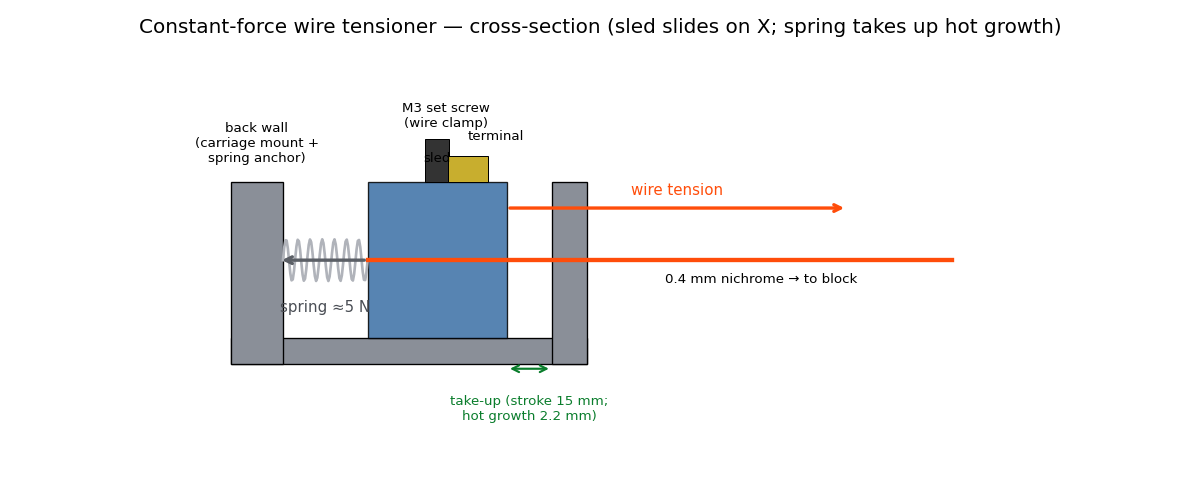
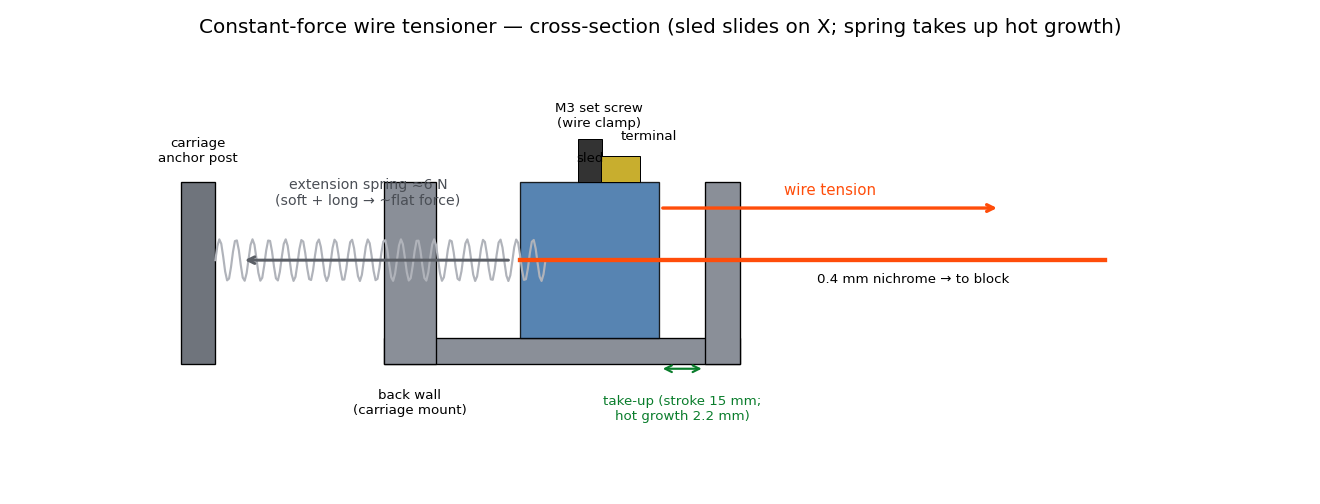
Real spring spec + heater driver design
Spring: geometry made a cavity extension spring too stiff over the 2.2 mm take-up,
so spec a soft stainless extension spring anchored to a carriage post ~30 mm behind
the bracket (long -> near-constant ~6 N). Bracket back wall opened to a pass-through;
params + assembly + labeled diagram updated. (Constant-force spring is the upgrade.)

Heater driver (sim/heater_driver.py): low-side logic-level N-MOSFET PWM from 24 V with
closed-loop constant-power (current-sense shunt). Resistive load -> NO flyback diode.
Two-timescale electro-thermal sim: ~15 W/17% duty at 250 C, 40 m-degC PWM ripple
(thermal mass filters), constant-power rejects a -20% supply sag, MOSFET ~30 mW.
Component selection + ASCII schematic. `make driver`.

diff --git a/sim/heater_driver.py b/sim/heater_driver.py
@@ -1,0 +1,212 @@
+"""Electro-thermal design + simulation for the hot-wire heater driver.
+
+Topology: low-side logic-level N-MOSFET PWM from a 24 V supply, with a current-sense shunt
+for CLOSED-LOOP constant-power (≈ constant-current, since nichrome's resistance barely drifts).
+The load is a pure resistor -> NO flyback diode needed (the #1 simplification vs a motor).
+
+Why constant-power control: wire temperature (hence kerf) is set by power = losses. Holding
+power rejects supply sag and resistance drift; open-loop fixed duty lets temperature wander.
+
+Two-timescale simulation:
+  1. slow thermal envelope (heat-up + supply-sag rejection) -- PWM averaged, dt = 1 ms
+  2. fast PWM ripple -- resolves the switching waveform, shows the wire's thermal mass makes
+     temperature ripple negligible (=> stable kerf) even at modest PWM frequency.
+
+Run:  python3 sim/heater_driver.py  ->  sim/out/heater_driver.png  + component / operating table.
+"""
+import os
+import sys
+
+import numpy as np
+import matplotlib
+matplotlib.use("Agg")
+import matplotlib.pyplot as plt          # noqa: E402
+
+HERE = os.path.dirname(os.path.abspath(__file__))
+sys.path.insert(0, os.path.join(HERE, "..", "cad"))
+sys.path.insert(0, HERE)
+import machine_params as M               # noqa: E402
+import wire_analysis as wa               # noqa: E402
+
+OUT = os.path.join(HERE, "out")
+os.makedirs(OUT, exist_ok=True)
+
+W = wa.Wire()
+C_P = 450.0                              # J/kgK nichrome specific heat
+C_TH = C_P * W.dens * W.area * W.span    # J/K  wire heat capacity (thermal mass)
+V_SUP = M.WIRE_PSU_V                     # supply voltage (V)
+RDS = 0.010                              # MOSFET on-resistance (ohm), logic-level FET
+F_PWM = 1000.0                           # PWM frequency (Hz)
+
+
+def R_at(Tc):
+    return wa.rho_at(W, Tc) * W.span / W.area
+
+
+def p_loss_total(Tc):
+    pr, pc = wa.p_loss(W.dia, Tc + 273.15, W.emiss)
+    return (pr + pc) * W.span
+
+
+# --- operating point -----------------------------------------------------
+I_op, P_len, p_rad, p_conv = wa.current_for_temp(W, W.T_cut)
+P_OP = P_len * W.span
+R_OP = R_at(W.T_cut)
+DUTY_OP = P_OP / (V_SUP ** 2 / (R_OP + RDS))
+I_PEAK = V_SUP / (R_OP + RDS)
+I_RMS = np.sqrt(DUTY_OP) * I_PEAK
+
+
+# --- controllers (return duty from measured T, R, V) ---------------------
+def duty_power(P_set, dmax=1.0):
+    return lambda T, R, V: min(P_set * (R + RDS) / V ** 2, dmax)
+
+
+def duty_fixed(d):
+    return lambda T, R, V: d
+
+
+# --- slow thermal envelope (PWM averaged) --------------------------------
+def run_slow(duty_fn, T0=20.0, t_end=12.0, dt=1e-3, v_of_t=None):
+    n = int(t_end / dt)
+    T = T0
+    ts = np.empty(n)
+    Ts = np.empty(n)
+    dd = np.empty(n)
+    for k in range(n):
+        t = k * dt
+        V = V_SUP if v_of_t is None else v_of_t(t)
+        R = R_at(T)
+        d = duty_fn(T, R, V)
+        P = d * V ** 2 / (R + RDS) * (R / (R + RDS))     # power in the wire (not the FET)
+        T += (P - p_loss_total(T)) / C_TH * dt
+        ts[k], Ts[k], dd[k] = t, T, d
+    return ts, Ts, dd
+
+
+# --- fast PWM ripple -----------------------------------------------------
+def run_ripple(duty, T0, f=F_PWM, cycles=6, dt=2e-6):
+    t_end = cycles / f
+    n = int(t_end / dt)
+    T = T0
+    ts = np.empty(n)
+    Ts = np.empty(n)
+    on = np.empty(n)
+    period = 1.0 / f
+    for k in range(n):
+        t = k * dt
+        is_on = (t % period) < duty * period
+        R = R_at(T)
+        P = (V_SUP ** 2 / (R + RDS) * (R / (R + RDS))) if is_on else 0.0
+        T += (P - p_loss_total(T)) / C_TH * dt
+        ts[k], Ts[k], on[k] = t, T, is_on
+    return ts, Ts, on
+
+
+def tau_estimate():
+    ts, Ts, _ = run_slow(duty_power(P_OP), t_end=20.0)
+    Tf = Ts[-1]
+    target = 20.0 + 0.632 * (Tf - 20.0)
+    i = int(np.argmax(Ts >= target))
+    return ts[i], Tf
+
+
+def report():
+    tau, Tf = tau_estimate()
+    p_fet = I_RMS ** 2 * RDS + 0.5 * V_SUP * I_PEAK * 100e-9 * F_PWM   # cond + switching
+    print("=" * 68)
+    print(f"  HOT-WIRE HEATER DRIVER — {V_SUP:.0f} V supply, low-side N-MOSFET PWM + CC")
+    print("=" * 68)
+    print(f"  wire            {W.dia*1e3:.1f} mm nichrome, {W.span*1e3:.0f} mm, R_hot {R_OP:.2f} ohm")
+    print(f"  operating pt    {P_OP:.1f} W to hold {W.T_cut:.0f} C   (duty {DUTY_OP*100:.0f}% @ {F_PWM:.0f} Hz)")
+    print(f"    currents      peak {I_PEAK:.2f} A | RMS {I_RMS:.2f} A | avg {DUTY_OP*I_PEAK:.2f} A")
+    print(f"  thermal mass    C = {C_TH:.3f} J/K  ->  time constant ~{tau:.1f} s (63%); ~{3*tau:.0f} s to heat")
+    print(f"  MOSFET loss     ~{p_fet*1e3:.0f} mW (I_rms^2*Rds + switching) -> runs cold, tiny FET ok")
+    print(f"  NO flyback diode — the load is resistive (non-inductive nichrome).")
+    print("-" * 68)
+    print("  COMPONENTS")
+    print(f"    supply    {V_SUP:.0f} V DC, >= 4 A (e.g. 24 V/5 A brick); 12 V works (halves peak I)")
+    print( "    MOSFET    logic-level N-ch, Vds>=40 V, Rds<=20 mOhm  (IRLZ44N / IRLB8721 / IRLR7843)")
+    print( "    gate      100 ohm series + 10k pulldown; MCU PWM 0.5-2 kHz (3.3/5 V drives it)")
+    print( "    sense     0.05 ohm shunt (low-side) + INA180/INA240 -> ADC   (or ACS712 hall)")
+    print( "    protect   ~5 A fuse; TVS (SMBJ30A) across supply; open-wire detect (duty>0 & I~0)")
+    print( "    control   PID on measured current/power -> duty (constant-power); e-stop cuts gate")
+    print( "    standalone alt: an off-the-shelf CC buck (XL4015 / DPS5015) set to I_set")
+    print("=" * 68)
+    print("  ASCII schematic")
+    print(r"""
+     +Vsup ──[FUSE]──┬──────────────┐
+                     │            [HOT WIRE]  (nichrome, ~6.3 Ω)   << no flyback diode
+                     │              │
+                    TVS          D│ MOSFET  (low-side, logic level)
+                     │           G┤◄── 100Ω ── MCU PWM
+     GND ────────────┴──[SHUNT]──S┘
+                          │
+                          └── INA180 ── MCU ADC   (current -> constant-power loop)
+""")
+
+
+def figure():
+    fig, ax = plt.subplots(2, 2, figsize=(13, 8), dpi=120)
+
+    # 1) heat-up (constant-power) with an overdrive option
+    ts, Ts, _ = run_slow(duty_power(P_OP), t_end=14.0)
+    tso, Tso, _ = run_slow(duty_power(2.0 * P_OP, dmax=0.6), t_end=14.0)  # overdrive, duty-capped
+    ax[0, 0].plot(ts, Ts, label="constant-power (Pset)")
+    ax[0, 0].plot(tso, Tso, "--", label="overdrive start (2×Pset, duty≤0.6)")
+    ax[0, 0].axhline(W.T_cut, color="#b00020", ls=":", lw=1)
+    ax[0, 0].set(xlabel="time (s)", ylabel="wire temperature (°C)",
+                 title="Heat-up — thermal mass sets the pace")
+    ax[0, 0].legend(fontsize=8)
+    ax[0, 0].grid(alpha=0.3)
+
+    # 2) supply-sag rejection: open-loop vs constant-power
+    def sag(t):
+        return V_SUP if t < 6 else V_SUP * 0.8       # 20% supply droop at t=6 s
+    tp, Tp, _ = run_slow(duty_power(P_OP), t_end=12.0, v_of_t=sag)
+    to, To, _ = run_slow(duty_fixed(DUTY_OP), t_end=12.0, v_of_t=sag)
+    ax[0, 1].plot(tp, Tp, label="constant-power (holds)")
+    ax[0, 1].plot(to, To, "--", label="open-loop fixed duty (drifts)")
+    ax[0, 1].axvline(6, color="#8a8f98", ls=":", lw=1)
+    ax[0, 1].text(6.1, ax[0, 1].get_ylim()[0] + 8, "−20% supply", fontsize=8, color="#555")
+    ax[0, 1].set(xlabel="time (s)", ylabel="wire temperature (°C)",
+                 title="Constant-power rejects supply sag")
+    ax[0, 1].legend(fontsize=8)
+    ax[0, 1].grid(alpha=0.3)
+
+    # 3) PWM ripple (fast) — negligible temperature ripple
+    tr, Tr, on = run_ripple(DUTY_OP, T0=W.T_cut)
+    ax[1, 0].plot(tr * 1e3, Tr, color="#b00020")
+    ax[1, 0].set(xlabel="time (ms)", ylabel="wire temperature (°C)",
+                 title=f"PWM ripple @ {F_PWM:.0f} Hz — Δ = {1e3*(Tr.max()-Tr.min()):.1f} m°C")
+    axb = ax[1, 0].twinx()
+    axb.fill_between(tr * 1e3, on, step="pre", color="#3a86c8", alpha=0.15)
+    axb.set_yticks([0, 1]); axb.set_yticklabels(["off", "on"]); axb.set_ylim(-0.1, 4)
+    ax[1, 0].grid(alpha=0.3)
+
+    # 4) duty -> steady temperature map
+    duties = np.linspace(0.02, 1.0, 60)
+    Tsteady = []
+    for d in duties:
+        _, Td, _ = run_slow(duty_fixed(d), t_end=40.0, dt=2e-3)
+        Tsteady.append(Td[-1])
+    ax[1, 1].plot(np.array(duties) * 100, Tsteady, color="#2f6da8")
+    ax[1, 1].axhline(W.T_cut, color="#b00020", ls=":", lw=1)
+    ax[1, 1].axvline(DUTY_OP * 100, color="#b00020", ls=":", lw=1)
+    ax[1, 1].plot(DUTY_OP * 100, W.T_cut, "o", color="#b00020")
+    ax[1, 1].set(xlabel="duty (%)", ylabel="steady temperature (°C)",
+                 title="Duty → steady temperature", ylim=(0, 700))
+    ax[1, 1].grid(alpha=0.3)
+
+    fig.suptitle(f"Hot-wire heater driver — {V_SUP:.0f} V low-side PWM + constant-power "
+                 f"(op: {P_OP:.0f} W, {DUTY_OP*100:.0f}% duty)", fontsize=12)
+    fig.tight_layout()
+    p = os.path.join(OUT, "heater_driver.png")
+    fig.savefig(p)
+    plt.close(fig)
+    return p
+
+
+if __name__ == "__main__":
+    report()
+    print("figure:", figure())

diff --git a/cad/tensioner.py b/cad/tensioner.py
@@ -39,6 +39,7 @@ COLORS = {
     "wire":     (1.00, 0.35, 0.06),
     "setscrew": (0.22, 0.22, 0.25),
     "terminal": (0.80, 0.70, 0.25),
+    "anchor":   (0.50, 0.52, 0.56),
 }
 ALPHA = {"sled": 0.45}          # translucent so the spring + take-up gap read through it
 
@@ -49,7 +50,10 @@ def assembly(takeup=0.35):
     z = M.TENS_WIRE_ZC
     sled_solid = Pos(x_start, 0, M.TENS_FLOOR) * sled.part()
 
-    spring = _spring(M.TENS_BACK, x_start, z, M.TENS_SPRING_OD)   # back wall -> sled back
+    hook_x = x_start + sled.HOOK_X                          # sled spring hook
+    anchor_x = hook_x - M.TENS_SPRING_INSTALL              # carriage anchor post (behind bracket)
+    spring = _spring(anchor_x, hook_x, z, M.TENS_SPRING_OD)  # extension spring through the back wall
+    anchor = Pos(anchor_x - 4, 0, z) * Box(8, 16, 16)       # carriage anchor stand-in
 
     wire_out_x = x_start + M.TENS_SLED_X
     wire = wire_mod.wire((wire_out_x, 0, z), (M.TENS_X + 45, 0, z), dia=1.5)
@@ -66,6 +70,7 @@ def assembly(takeup=0.35):
         "bracket": bracket.part(),
         "sled": sled_solid,
         "spring": spring,
+        "anchor": anchor,
         "wire": wire,
         "setscrew": setscrew,
         "terminal": terminal,
@@ -112,17 +117,20 @@ def schematic(name="tensioner_diagram", takeup=0.35):
     z = M.TENS_WIRE_ZC
     x0 = M.TENS_BACK + M.TENS_STROKE * (1 - takeup)      # sled back
     x1 = x0 + M.TENS_SLED_X                              # sled front
+    hook_x = x0 + M.TENS_SLED_X * 0.18                   # sled spring hook
+    anchor_x = hook_x - M.TENS_SPRING_INSTALL            # carriage anchor post
     grey, blue, stl, orn = "#8a8f98", "#3a6ea5", "#b0b3ba", "#ff4d0a"
 
-    fig, ax = plt.subplots(figsize=(10, 4.2), dpi=120)
+    fig, ax = plt.subplots(figsize=(11, 4.2), dpi=120)
     ax.add_patch(Rectangle((0, 0), X, F, fc=grey, ec="k", lw=0.8))                    # floor
     ax.add_patch(Rectangle((0, 0), M.TENS_BACK, H, fc=grey, ec="k", lw=0.8))          # back wall
+    ax.add_patch(Rectangle((anchor_x - 4, 0), 4, H, fc="#6f747c", ec="k", lw=0.8))    # carriage anchor
     ax.add_patch(Rectangle((X - M.TENS_FRONT, 0), M.TENS_FRONT, H, fc=grey, ec="k", lw=0.8))  # front
     ax.add_patch(Rectangle((x0, F), M.TENS_SLED_X, M.TENS_SLED_Z, fc=blue, ec="k",
                            lw=0.8, alpha=0.85))                                        # sled
-    # spring coil (back wall -> sled)
-    xs = np.linspace(M.TENS_BACK, x0, 70)
-    ax.plot(xs, z + 2.4 * np.sin(np.linspace(0, 7 * 2 * np.pi, 70)), color=stl, lw=1.6)
+    # extension spring: carriage anchor -> sled hook (passes through the back wall Ø10)
+    xs = np.linspace(anchor_x, hook_x, 170)
+    ax.plot(xs, z + 2.4 * np.sin(np.linspace(0, 20 * 2 * np.pi, 170)), color=stl, lw=1.3)
     # set screw + terminal on the sled
     ax.add_patch(Rectangle((x0 + M.TENS_SLED_X / 2 - 1.4, F + M.TENS_SLED_Z), 2.8, 5,
                            fc="#333", ec="k", lw=0.6))
@@ -131,9 +139,10 @@ def schematic(name="tensioner_diagram", takeup=0.35):
     # wire through the sled and out the front
     ax.plot([x0, X + 42], [z, z], color=orn, lw=2.6)
     # force arrows
-    ax.annotate("", xy=(M.TENS_BACK - 0.5, z), xytext=(x0, z),
-                arrowprops=dict(arrowstyle="->", color="#5b5f66", lw=2))
-    ax.text((M.TENS_BACK + x0) / 2, F + 3.0, "spring ≈5 N", color="#4a4e55", ha="center", fontsize=9)
+    ax.annotate("", xy=(anchor_x + 3, z), xytext=(x0 - 1, z),
+                arrowprops=dict(arrowstyle="->", color="#5b5f66", lw=1.8))
+    ax.text((anchor_x + x0) / 2, z + 6, "extension spring ≈6 N\n(soft + long → ~flat force)",
+            color="#4a4e55", ha="center", va="bottom", fontsize=8.5)
     ax.annotate("", xy=(X + 30, z + 6), xytext=(x1, z + 6),
                 arrowprops=dict(arrowstyle="->", color=orn, lw=2))
     ax.text((x1 + X + 30) / 2, z + 7.5, "wire tension", color=orn, ha="center", fontsize=9)
@@ -144,7 +153,8 @@ def schematic(name="tensioner_diagram", takeup=0.35):
             color="#0a7d2c", ha="center", va="top", fontsize=8)
     # labels
     for tx, tz, s, ha in [
-        (M.TENS_BACK / 2, H + 2, "back wall\n(carriage mount +\nspring anchor)", "center"),
+        (anchor_x - 2, H + 2, "carriage\nanchor post", "center"),
+        (M.TENS_BACK / 2, -6, "back wall\n(carriage mount)", "center"),
         (x0 + M.TENS_SLED_X / 2, H + 2, "sled", "center"),
         (x0 + M.TENS_SLED_X / 2 + 1, F + M.TENS_SLED_Z + 6, "M3 set screw\n(wire clamp)", "center"),
         (x0 + M.TENS_SLED_X * 0.72, F + M.TENS_SLED_Z + 4.5, "terminal", "left"),
@@ -152,7 +162,7 @@ def schematic(name="tensioner_diagram", takeup=0.35):
     ]:
         ax.text(tx, tz, s, ha=ha, va="bottom", fontsize=8)
 
-    ax.set_xlim(-6, X + 50)
+    ax.set_xlim(anchor_x - 10, X + 52)
     ax.set_ylim(-14, H + 16)
     ax.set_aspect("equal")
     ax.axis("off")

diff --git a/cad/machine_params.py b/cad/machine_params.py
@@ -63,7 +63,18 @@ TENS_M3_CL    = 3.4      # M3 clearance
 TENS_SET_TAP  = 2.6      # M3 self-tap into plastic (wire-clamp set screw)
 TENS_HEATSET  = 4.6      # M3 heat-set / terminal bore (through, not blind)
 TENS_WIRE_CH  = 2.0      # wire channel diameter through the sled
-TENS_SPRING_OD = 6.0     # extension-spring OD (stand-in)
+# real spring — a soft stainless EXTENSION spring, anchored to a post on the carriage
+# ~30 mm behind the bracket so it is long enough that its rate barely changes the force over
+# the tiny take-up travel. (A constant-force spring is the ideal but a specialty part.)
+# Installed stretched to ~38 mm -> ~6 N nominal; over the 2.2 mm hot take-up it drops to
+# ~5.3 N (<10%), keeping sag < 0.15 mm. Order to: OD/wire/free-length/rate below.
+TENS_SPRING_OD      = 8.0    # extension spring OD (mm)
+TENS_SPRING_WIRE    = 0.7    # spring wire diameter (mm), stainless 302
+TENS_SPRING_FREE    = 25.0   # free length (mm)
+TENS_SPRING_RATE    = 0.30   # spring rate (N/mm)
+TENS_SPRING_IT      = 1.5    # initial tension / preload (N)
+TENS_SPRING_INSTALL = 38.0   # installed (stretched) length (mm) -> ~6 N
+TENS_SPRING_ANCHOR_D = 10.0  # back-wall pass-through for the spring (mm)
 # derived
 TENS_CAV_X = TENS_SLED_X + TENS_STROKE          # channel cavity length
 TENS_CAV_Y = TENS_SLED_Y + TENS_SLIDE_CL        # channel cavity width

diff --git a/cad/tensioner_bracket.py b/cad/tensioner_bracket.py
@@ -21,7 +21,7 @@ def part():
     for s in (1, -1):                                   # carriage mount (through back wall)
         holes.append(xhole(M.TENS_M3_CL / 2, -1, M.TENS_BACK + 1,
                            s * M.TENS_MOUNT_DY / 2, M.TENS_WIRE_ZC))
-    holes.append(xhole(3.2 / 2, -1, M.TENS_BACK + 1, 0, M.TENS_WIRE_ZC))   # spring anchor
+    holes.append(xhole(M.TENS_SPRING_ANCHOR_D / 2, -1, M.TENS_BACK + 1, 0, M.TENS_WIRE_ZC))  # spring pass-through
     holes.append(xhole(M.TENS_WIRE_CH / 2, X - M.TENS_FRONT - 1, X + 1, 0, M.TENS_WIRE_ZC))  # wire exit
     return body.cut(*holes)
 

diff --git a/README.md b/README.md
@@ -52,6 +52,11 @@ vs tension, and why tensioning must be constant-force.*
 |---|---|
 | ![tensioner](media/tensioner.png) | ![tensioner diagram](media/tensioner_diagram.png) |
 
+![heater driver](media/heater_driver.png)
+
+*Heater driver sizing (`make driver`) — heat-up, constant-power supply-sag rejection, the
+40 m°C PWM ripple (→ stable kerf), and the duty→temperature map.*
+
 ## Layout
 
 ```
@@ -73,6 +78,7 @@ sim/
   cut_sim.py            kinematic cut: ruled solids (extrusion vs taper) + swept-wire GIF
   nest_sim.py           nesting: continuous-path cut plan + tray of parts + animation
   wire_analysis.py      thermo-mechanical wire sizing (thermal / sag / expansion)
+  heater_driver.py      heater-driver electro-thermal sim + component selection
   mujoco_sim.py         interactive MuJoCo bench (make mujoco) + headless demo / selftest
   out/                  generated pngs / gifs (git-ignored)
 ```
@@ -84,6 +90,7 @@ Everything is driven by the Makefile (`make help` lists all targets):
 ```bash
 make                 # run the cut + nest simulations
 make wire            # thermo-mechanical wire sizing -> sim/out/wire_analysis.png
+make driver          # heater-driver electro-thermal sim -> sim/out/heater_driver.png
 make tensioner       # verify printed parts (watertight) + render tensioner assembly
 make mujoco          # INTERACTIVE MuJoCo viewer — drive the 4 axes, the wire follows
 make mujoco-demo     # headless sweep -> sim/out/mujoco_sweep.gif
@@ -135,11 +142,28 @@ A printable **sled-in-channel** constant-force tensioner (`cad/tensioner_*.py`):
 - **Bracket** — open-top channel bolts to the carriage; guides the sled, anchors the spring,
   passes the wire through the front wall. **Sled** — slides on the wire axis with an M3
   set-screw wire clamp, an electrical terminal boss, and a spring hook.
-- An **extension spring** pulls the sled back with ~5 N; the **15 mm stroke** absorbs the
-  2.2 mm hot growth (plus setup slack) so tension stays flat — the constant-force behaviour the
-  sizing analysis proved mandatory.
+- A **soft stainless extension spring** (~8 mm OD, ~25 mm free, ~0.3 N/mm), anchored to a post
+  on the carriage ~30 mm behind the bracket so it stays near-constant over the travel, pulls the
+  sled with **~6 N**; the **15 mm stroke** absorbs the 2.2 mm hot growth. (A true constant-force
+  spring is the tighter-tolerance upgrade.) This is the constant-force behaviour the analysis
+  proved mandatory.
 - Force is along the wire axis, so gravity + the channel capture the sled — no printed overhangs.
 - Both printed parts pass the watertight / single-body slicer gate.
+
+## Heater driver (sized — `make driver`)
+
+Low-side logic-level **N-MOSFET PWM** from a 24 V supply with a **current-sense shunt for
+closed-loop constant-power** (`sim/heater_driver.py`):
+
+- The load is a pure resistor, so **no flyback diode** — the single biggest simplification vs a
+  motor driver.
+- **Constant-power** (≈ constant-current, since nichrome's R barely drifts) holds temperature —
+  hence kerf — against supply sag and resistance drift; open-loop fixed duty wanders.
+- **~15 W / 17 % duty** at the 250 °C operating point; **PWM ripple is 40 m°C** at 1 kHz because
+  the wire's thermal mass (τ ≈ 4 s) filters it → stable kerf.
+- MOSFET dissipates **~30 mW** (resistive load, low duty) → any logic-level FET runs cold.
+- Parts: 24 V/≥4 A supply, logic-level N-MOSFET (IRLZ44N/IRLB8721), 0.05 Ω shunt + INA180, MCU
+  PWM, ~5 A fuse + TVS + open-wire detect. Standalone alt: a CC buck module set to I_set.
 
 ## Status & next steps
 
@@ -150,7 +174,10 @@ A printable **sled-in-channel** constant-force tensioner (`cad/tensioner_*.py`):
 - [x] **Wire subsystem sizing** — thermo-mechanical analysis (`make wire`): gauge, PSU,
       tension, elongation, kerf. Key result: constant-force tensioning is mandatory.
 - [x] **Wire tensioner mechanism** — printable sled-in-channel (`make tensioner`), watertight
+- [x] **Real spring spec'd** — soft extension spring (~6 N) on a carriage anchor post
+- [x] **Heater driver sized** — low-side PWM + constant-power (`make driver`), no flyback diode
 - [ ] Mount the tensioner on the carriage — integrate into the machine assembly
+- [ ] Driver hardware — schematic/PCB (or a CC buck module) wired to the controller
 - [ ] MuJoCo **sag validation** — chain/cable under gravity + tension vs the catenary formula
 - [ ] Repeatable profiling accuracy — backlash, squareness, wire alignment/lag
 - [ ] CAM — continuous-path nest routing + automatic lead-in/slit generation